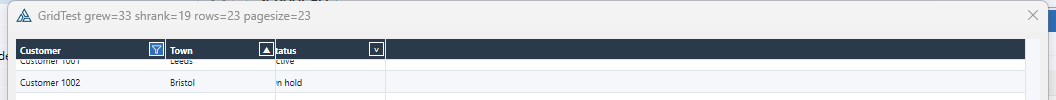
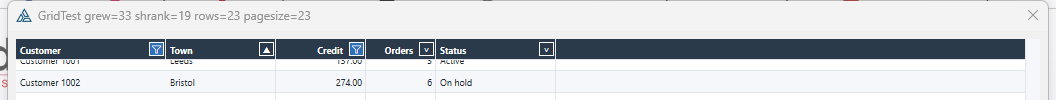
BrowseGrid: a filter per column, added together
Filtering a second column made the first column's funnel disappear - and the
glyph was telling the truth: the filter had gone too. There was one filter and
one marked column, so a second replaced the first, and the browse quietly
stopped being filtered on a column the user still believed was filtered. That is
the worse half of this by some way; the missing glyph was the symptom that made
it visible.

Filters are per column now and add up the way Excel's do. Each column keeps its
own expression and they are joined with AND only on the way out to SetFilter,
because ABC keeps a single expression per ID. The marks are a set rather than
one column index, so every filtered heading shows its funnel and all of them are
re-applied on every refill. Clear this filter clears the column whose menu was
opened; clear all filters clears the lot.

docs/BrowseGrid-filter-button.png: two columns filtered at once, a third sorted.
Regenerated with the button on and rebuilt: 0 errors.

diff --git a/templates/BrowseGrid/d2grid.c b/templates/BrowseGrid/d2grid.c
@@ -161,7 +161,10 @@ typedef struct {
     int   pt;
 
     int   btns;                 /* draw a filter button on every heading?   */
-    int   filterCol;            /* which column is filtered, -1 for none    */
+    /* Which columns are filtered - a SET, not one column. Filters add up the
+       way Excel's do, so more than one can be on at once and every one of them
+       has to say so on its own heading. */
+    int   colFilt[G_COLS];
     int   sortCol;              /* which column is sorted, -1 for none      */
     int   sortDir;              /* 1 up, -1 down                            */
 
@@ -531,7 +534,7 @@ static void d2g_Draw(Grid* c) {
                     int scol, sdir = 0, fcol = 0, i;
                     for (i = 0; i < c->cols; i++) if (c->colGrp[i] == col) {
                         if (i == c->sortCol)   sdir = c->sortDir;
-                        if (i == c->filterCol) fcol = 1;
+                        if (c->colFilt[i]) fcol = 1;
                     }
                     scol = sdir;
                     filterBtn(c, cr, (float)(c->hdrH / 2), c->cHdrText,
@@ -562,9 +565,9 @@ static void d2g_Draw(Grid* c) {
                  c->cHdrText, c->colAlign[col], c->fmtHdr, 0);
             if (c->btns)
                 filterBtn(c, cr, (float)(c->hdrH / 2), c->cHdrText,
-                          (col == c->filterCol) ? c->cSelBack : c->cHdrBack,
+                          c->colFilt[col] ? c->cSelBack : c->cHdrBack,
                           (col == c->sortCol) ? c->sortDir : 0,
-                          col == c->filterCol);
+                          c->colFilt[col]);
             else if (col == c->sortCol)
                 sortMark(c, cr, (float)(c->hdrH / 2) - 2.0f, c->sortDir, c->cHdrText);
             line(c, cr - 0.5f, 0.0f, cr - 0.5f, (float)c->hdrH, c->cGrid);
@@ -604,9 +607,9 @@ static void d2g_Draw(Grid* c) {
                      c->cHdrText, c->colAlign[col], c->fmtHdr, 0);
                 if (c->btns)
                     filterBtn(c, cre, (float)(c->hdrH / 2), c->cHdrText,
-                              (col == c->filterCol) ? c->cSelBack : c->cHdrBack,
+                              c->colFilt[col] ? c->cSelBack : c->cHdrBack,
                               (col == c->sortCol) ? c->sortDir : 0,
-                              col == c->filterCol);
+                              c->colFilt[col]);
                 else if (col == c->sortCol)
                     sortMark(c, cre, (float)(c->hdrH / 2) - 2.0f, c->sortDir, c->cHdrText);
             }
@@ -662,7 +665,8 @@ int d2g_Attach(void* hwnd, const char* face, int pt) {
     if (i > G_MAX) return 0;
     c = &g_g[i];
     c->used = 1; c->hwnd = (HWND)hwnd; c->rt = 0; c->brush = 0;
-    c->sortCol = -1; c->sortDir = 1; c->filterCol = -1;
+    c->sortCol = -1; c->sortDir = 1;
+    { int k; for (k = 0; k < G_COLS; k++) c->colFilt[k] = 0; }
     c->grps = 0; c->lines = 1; c->wrapLines = 1; c->btns = 0;
     c->cols = 0; c->frozen = 0; c->visRows = 0; c->firstRow = 0;
     c->totalRows = 0; c->selRow = -1; c->scrollX = 0;
@@ -948,12 +952,17 @@ void d2g_FilterBtns(int h, int on) {
     if (c) c->btns = on ? 1 : 0;
 }
 
-/* Which column a filter is on, so its button can say so. Excel shows a funnel;
-   this fills the button instead, which reads the same at this size and does not
-   need a second icon drawn out of one-pixel rows. */
-void d2g_FilterOn(int h, int col) {
+/* Mark a column as filtered, or unmark it. col < 0 clears the lot, which is
+   what "clear all filters" wants and what a fresh grid starts from. */
+void d2g_FilterOn(int h, int col, int on) {
     Grid* c = slot(h);
-    if (c) c->filterCol = col;
+    int   k;
+    if (!c) return;
+    if (col < 0) {
+        for (k = 0; k < G_COLS; k++) c->colFilt[k] = 0;
+        return;
+    }
+    if (col < G_COLS) c->colFilt[col] = on ? 1 : 0;
 }
 
 /* Excel's little boxed arrow at the right of a heading, and the one place the

diff --git a/examples/BrowseGrid/README.md b/examples/BrowseGrid/README.md
@@ -662,6 +662,19 @@ Turning them on is a TXA round trip:
     ClarionCL -win -au -ai app.app out.txa      # import
     ClarionCL -win -au -ag app.app              # and generate
 
+## A filter per column, added together
+
+Filtering a second column made the first column's funnel disappear — and the glyph was telling the
+truth: the filter had gone too. There was **one** filter and **one** marked column, so a second one
+replaced the first, and the browse quietly stopped being filtered on a column the user still thought
+was filtered. That is worse than the missing glyph.
+
+Filters are per column now and add up the way Excel's do. Each column keeps its own expression; they
+are joined with `AND` only on the way out to `SetFilter`, because ABC keeps a single expression per ID.
+The marks are a set rather than one column index, so every filtered heading shows its funnel, and all
+of them are re-applied on every refill. **Clear this filter** clears the column you opened the menu on;
+**Clear all filters** clears the lot.
+
 ## POPUP counts its separators
 
 Filtering did nothing, and *clearing* a filter applied one — on the value that had been selected

diff --git a/README.md b/README.md
@@ -478,7 +478,8 @@ it while every group to its right shifts along.
 **Excel's drop-down on every heading.** A boxed glyph at the right of each heading — `˅` for a menu, `▲`/`▼`
 for the sort direction, a **funnel** on a filled button when the column is filtered (U+E71C out of Windows'
 own icon font; if it does not resolve, the fill still says it). The menu sorts either way and filters on the
-value under the selection. Sorting goes through the browse exactly as a heading click does, and filtering
+value under the selection, **per column and added together** — filter three columns and all three are
+in force, all three say so, and each can be cleared on its own. Sorting goes through the browse exactly as a heading click does, and filtering
 calls the browse object's own `SetFilter`, so range limits and locators keep working. The field name for the
 filter is read at run time with **`WHO()`** — an ABC browse queue labels its fields with the file fields they
 came from, so `WHO(Queue:Browse:1,n)` answers `STU:LastName` and nothing has to be mapped by hand.
